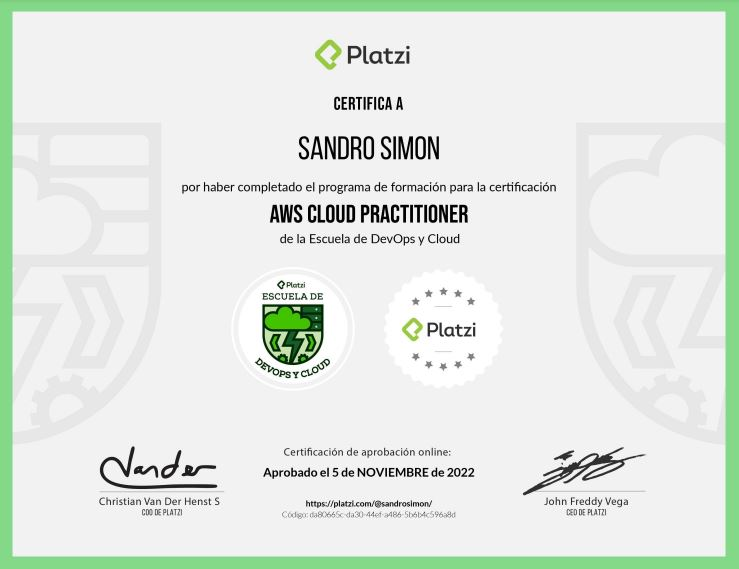
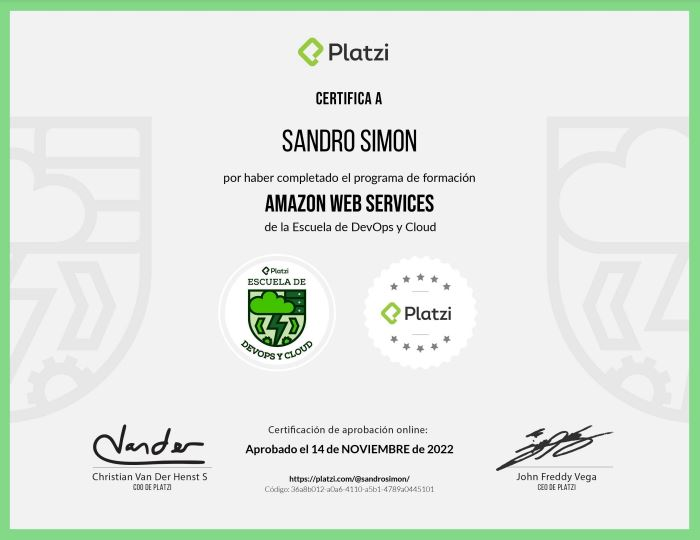
AWS certicate added

diff --git a/index.html b/index.html
@@ -273,7 +273,7 @@
                 <article class="certification">
                     
                     <div class="image-container">
-                        <a href="https://platzi.com/p/sandrosimon/ruta/8401-aws-cloud-practitioner/diploma/detalle/" target="_blank" rel="noopener noreferrer">
+                        <a href="https://platzi.com/p/sandrosimon/ruta/34-aws/diploma/detalle/" target="_blank" rel="noopener noreferrer">
                             <img src="./img/certification-platzi-aws.jpg" alt="">
                         </a>
                     </div>
